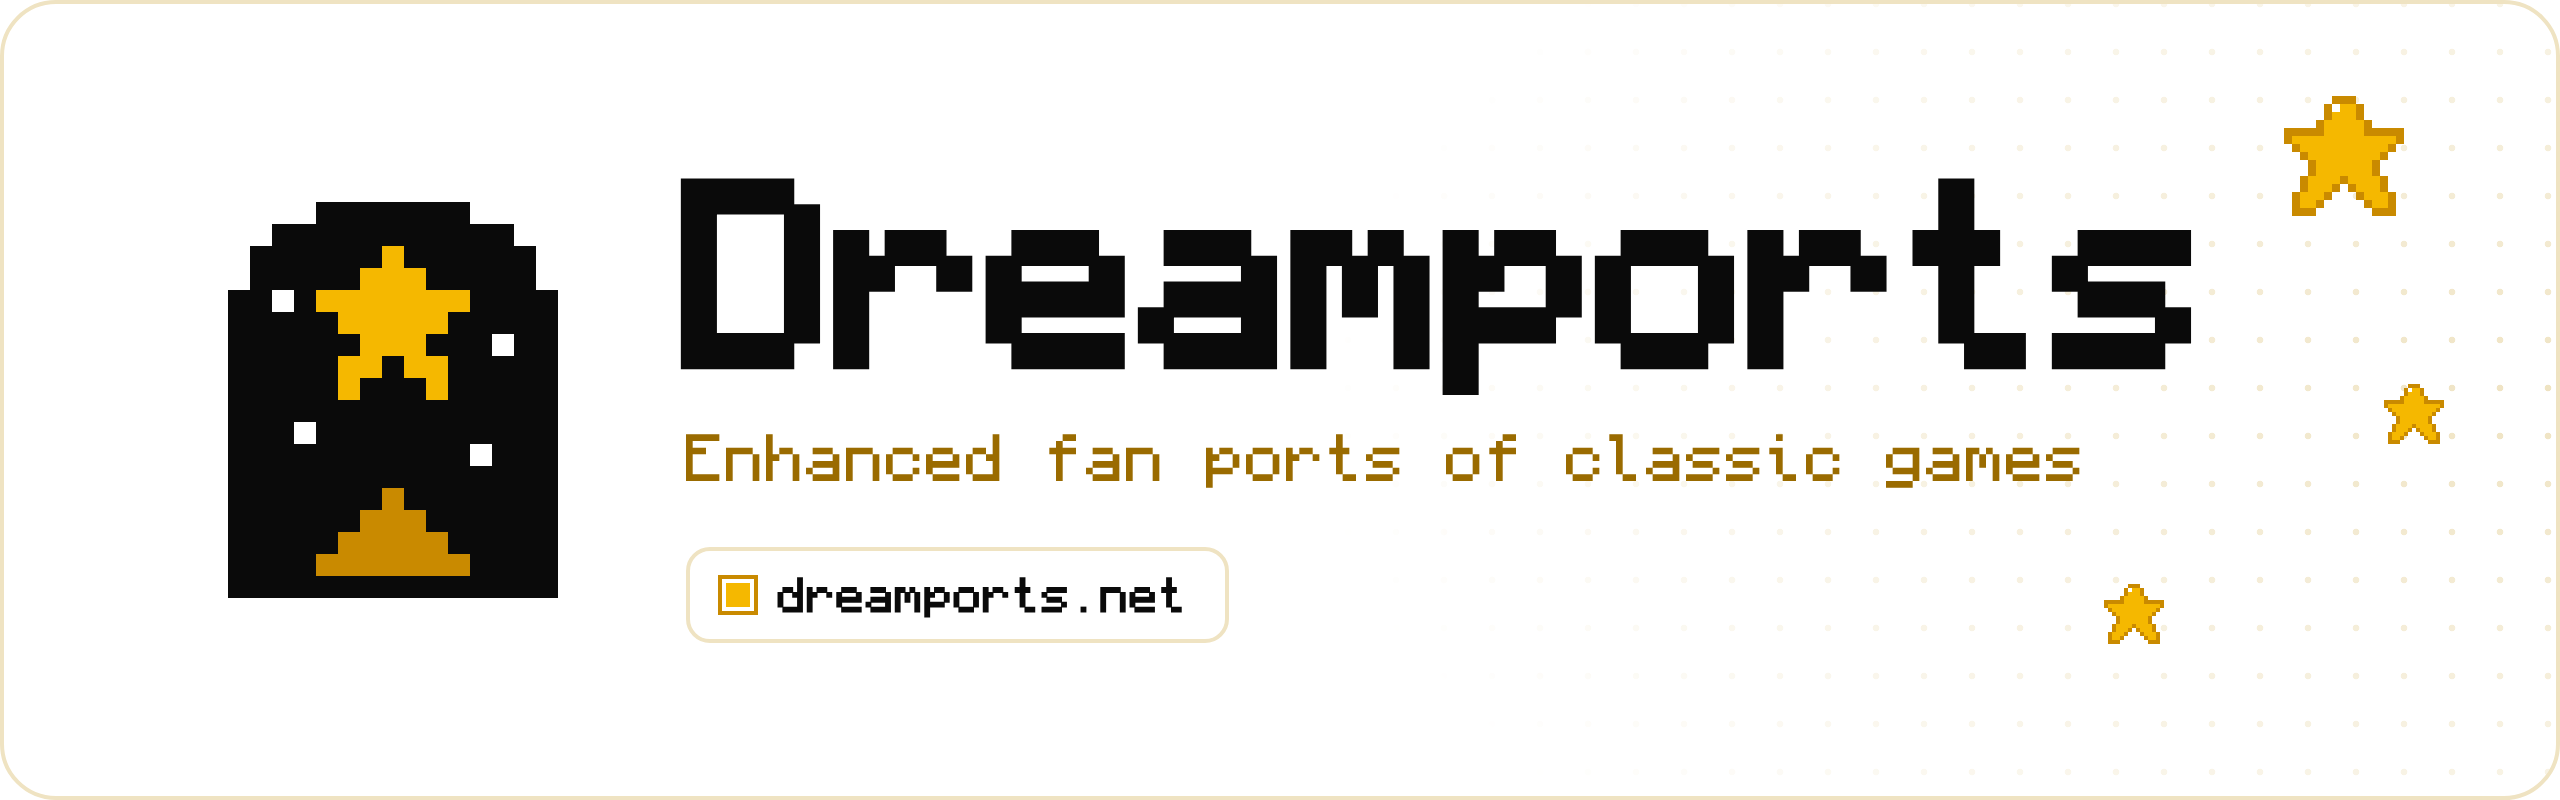
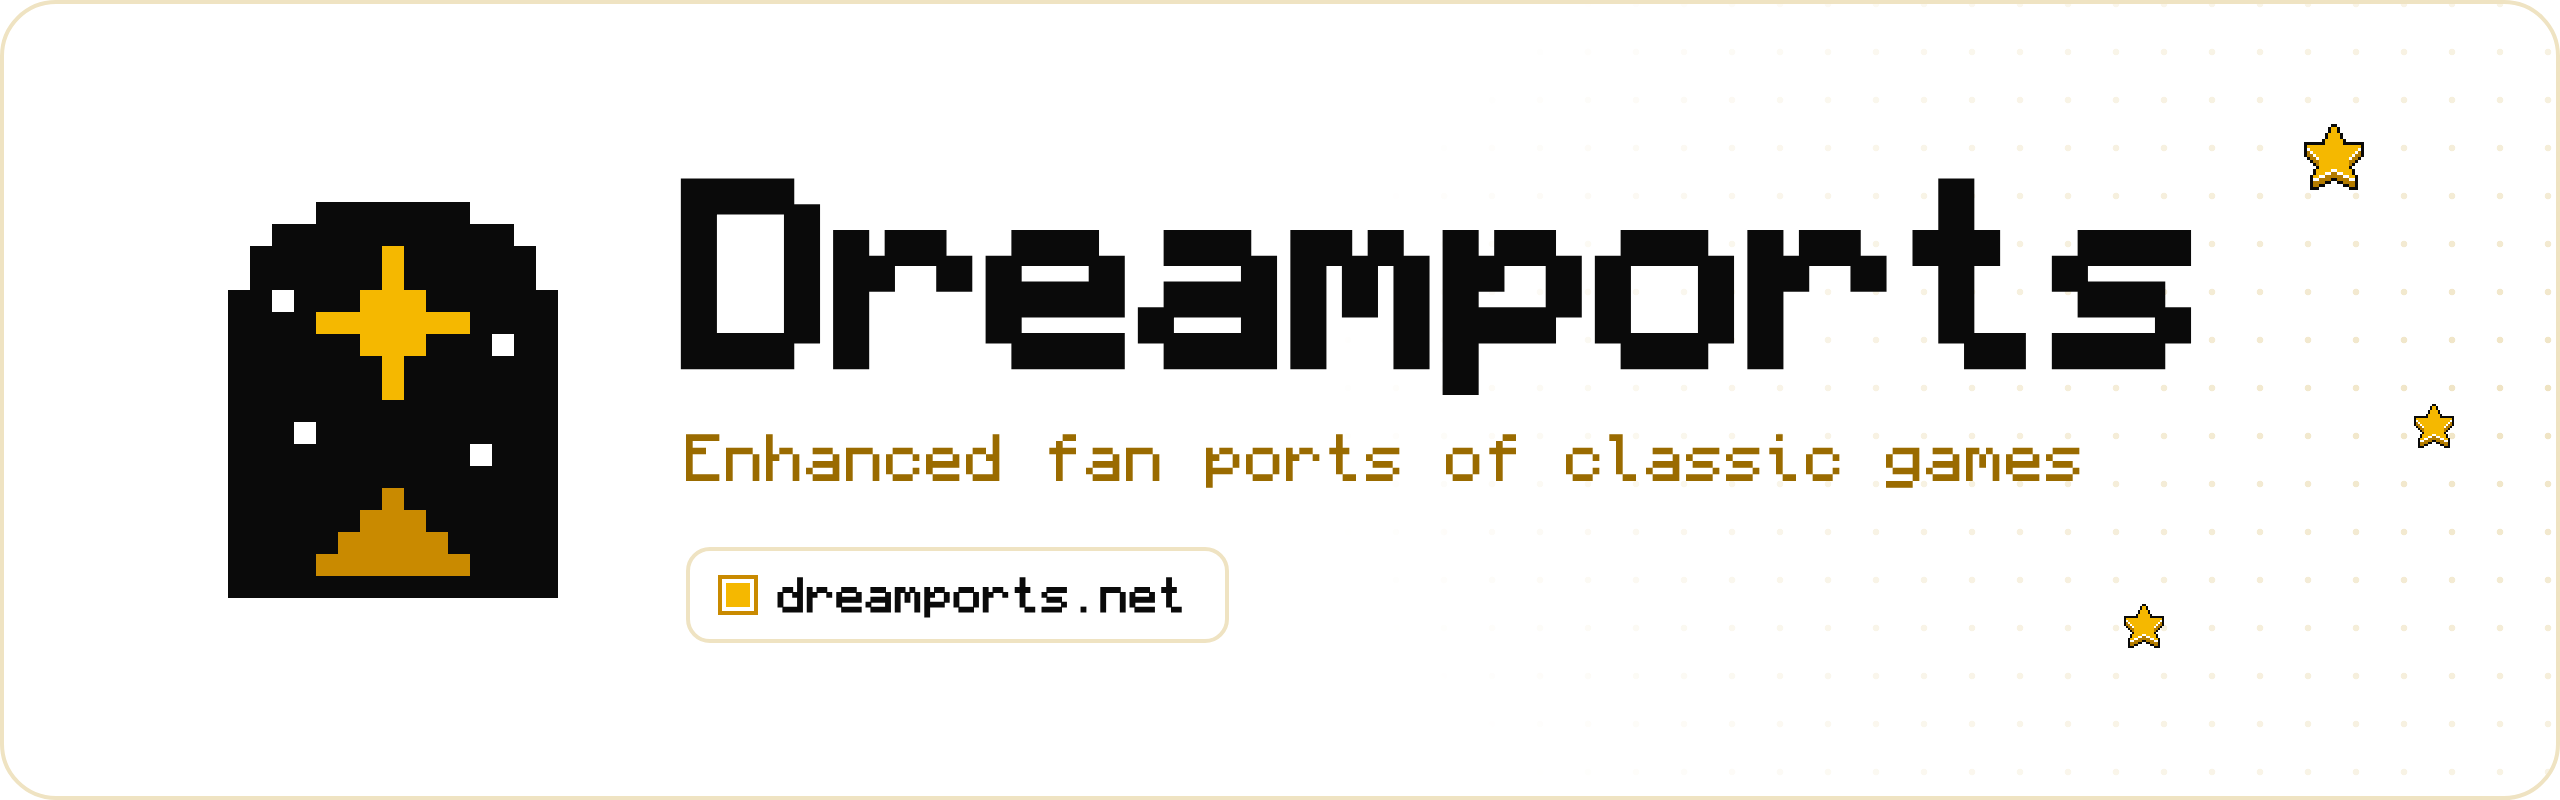
docs: small pixel stars by Narik, recolored, with credits (#2)

diff --git a/.github/readme/banner.html b/.github/readme/banner.html
@@ -8,7 +8,7 @@
       --force-device-scale-factor=2 --virtual-time-budget=5000 --window-size=1280,400 \
       --screenshot=banner.png "file://$PWD/banner.html?kind=banner"
   For the social preview use kind=social, --window-size=1280,640 and --force-device-scale-factor=1
-  (GitHub wants 1280x640 under 1 MB). Save the banner as lossless WebP.
+  (GitHub wants 1280x640 under 1 MB). Save the banner as lossless WebP. star.png must sit next to this file.
 -->
 <!doctype html>
 <html>
@@ -103,12 +103,12 @@
     '....KKKKKKK....',
     '..KKKKKKKKKKK..',
     '.KKKKKKGKKKKKK.',
-    '.KKKKKGGGKKKKK.',
-    'KKWKGGGGGGGKKKK',
-    'KKKKKGGGGGKKKKK',
+    '.KKKKKKGKKKKKK.',
+    'KKWKKKGGGKKKKKK',
+    'KKKKGGGGGGGKKKK',
     'KKKKKKGGGKKKWKK',
-    'KKKKKGGKGGKKKKK',
-    'KKKKKGKKKGKKKKK',
+    'KKKKKKKGKKKKKKK',
+    'KKKKKKKGKKKKKKK',
     'KKKKKKKKKKKKKKK',
     'KKKWKKKKKKKKKKK',
     'KKKKKKKKKKKWKKK',
@@ -124,29 +124,20 @@
   mark.style.height = (sizes.mark * 18 / 15) + 'px';
   draw(mark, doorway, 1);
 
-  // Chubby five-point stars, in the spirit of classic platformers. No face: just the shape.
-  const star = [
-    '......DDD......',
-    '.....DWGGD.....',
-    '.....DGGGD.....',
-    '....DGGGGGD....',
-    'DDDDDGGGGGDDDDD',
-    'DGGGGGGGGGGGGGD',
-    '.DGGGGGGGGGGGD.',
-    '..DGGGGGGGGGD..',
-    '...DGGGGGGGD...',
-    '...DGGGGGGGD...',
-    '..DGGGGDGGGGD..',
-    '..DGGGD.DGGGD..',
-    '.DGGGD...DGGGD.',
-    '.DGGD.....DGGD.',
-    '.DDD.......DDD.',
-  ];
+  // Small golden stars: star.png is Narik's "Pixel Art Animated Star", recolored (see the README credits).
+  // The banner renders at 2x, so 1.5x stays on whole pixels there; the social preview renders at 1x.
   const stars = document.getElementById('stars');
   const spots = kind === 'social'
-    ? [[4, 150, 96], [3, 1080, 120], [3, 1110, 500], [2, 220, 500], [2, 1170, 300]]
-    : [[4, 1140, 46], [2, 1050, 290], [2, 1190, 190]];
-  for (const [cell, x, y] of spots) draw(stars, star, cell, x, y);
+    ? [[2, 160, 110], [1, 1090, 130], [2, 1110, 500], [1, 230, 500], [1, 1170, 310]]
+    : [[1.5, 1150, 60], [1, 1205, 200], [1, 1060, 300]];
+  for (const [scale, x, y] of spots) {
+    const img = document.createElementNS('http://www.w3.org/2000/svg', 'image');
+    img.setAttribute('href', 'star.png');
+    img.setAttribute('x', x); img.setAttribute('y', y);
+    img.setAttribute('width', 20 * scale); img.setAttribute('height', 22 * scale);
+    img.style.imageRendering = 'pixelated';
+    stars.appendChild(img);
+  }
 </script>
 </body>
 </html>

diff --git a/README.md b/README.md
@@ -1,6 +1,6 @@
 <div align="center">
 
-<img src=".github/readme/banner.webp" width="100%" alt="Dreamports: enhanced fan ports of classic games, at dreamports.net. A black pixel-art doorway opens onto a night sky with a golden star, with more golden stars around the name.">
+<img src=".github/readme/banner.webp" width="100%" alt="Dreamports: enhanced fan ports of classic games, at dreamports.net. A black pixel-art doorway opens onto a night sky with a golden sparkle, with small golden stars around the name.">
 
 <br>
 
@@ -175,6 +175,8 @@ Privately, please, through the **Security** tab. [SECURITY.md](SECURITY.md) expl
 The code is free and open source under the [MIT License](LICENSE).
 
 The banner and the social preview are original pixel art made for Dreamports, set in [Monocraft](https://github.com/IdreesInc/Monocraft) by Idrees Hassan, under the SIL Open Font License. Their source, [`.github/readme/banner.html`](.github/readme/banner.html), can redraw them.
+
+The small stars are the [Pixel Art Animated Star](https://soulofkiran.itch.io/pixel-art-animated-star) by Narik, recolored to match. They're used under Narik's terms, which allow personal and commercial use and edits, so [`.github/readme/star.png`](.github/readme/star.png) isn't covered by the MIT License. Thank you, Narik!
 
 Game names and trademarks belong to their owners. Dreamports is not affiliated with or endorsed by Sega, Nintendo, or any other publisher.
 
